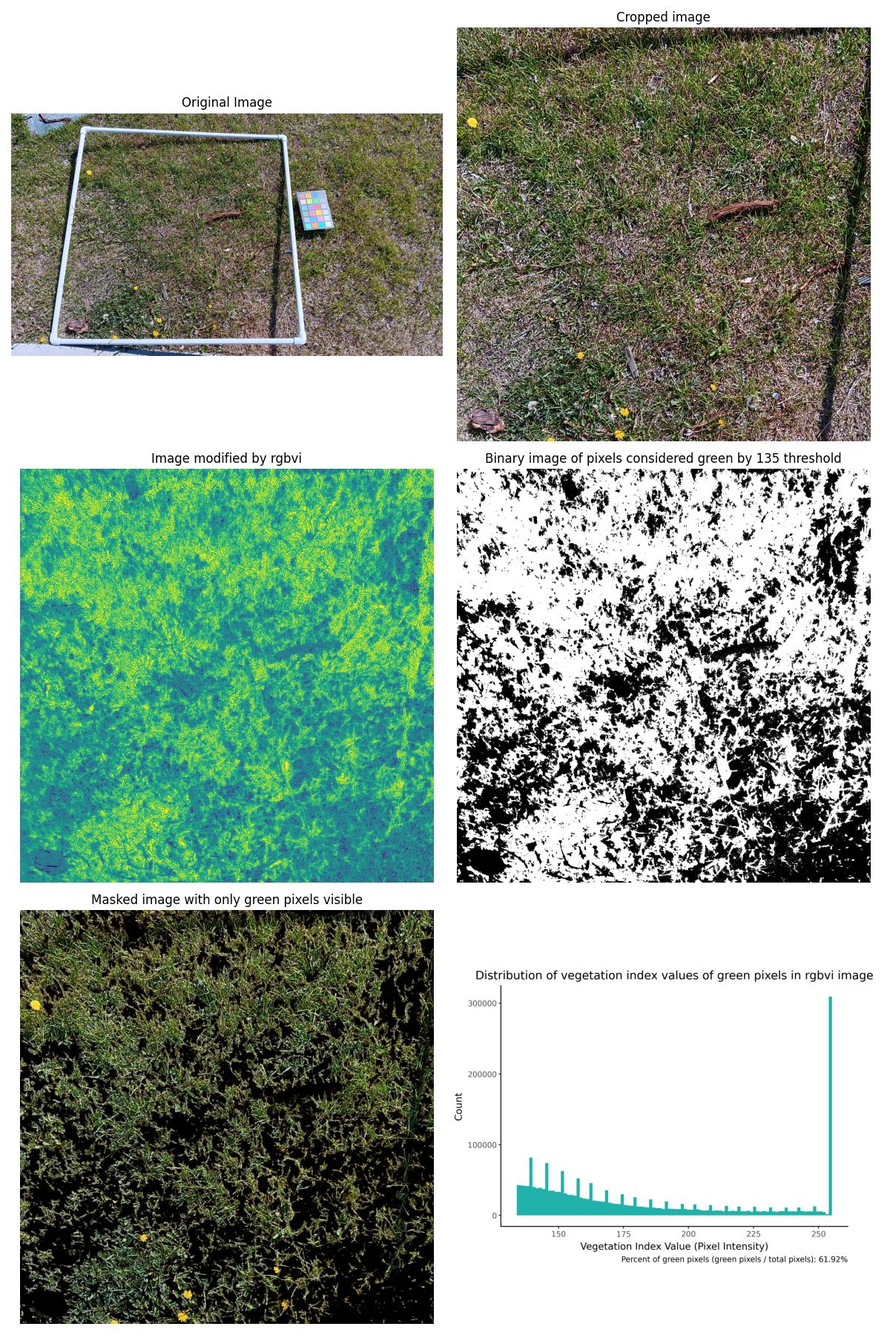
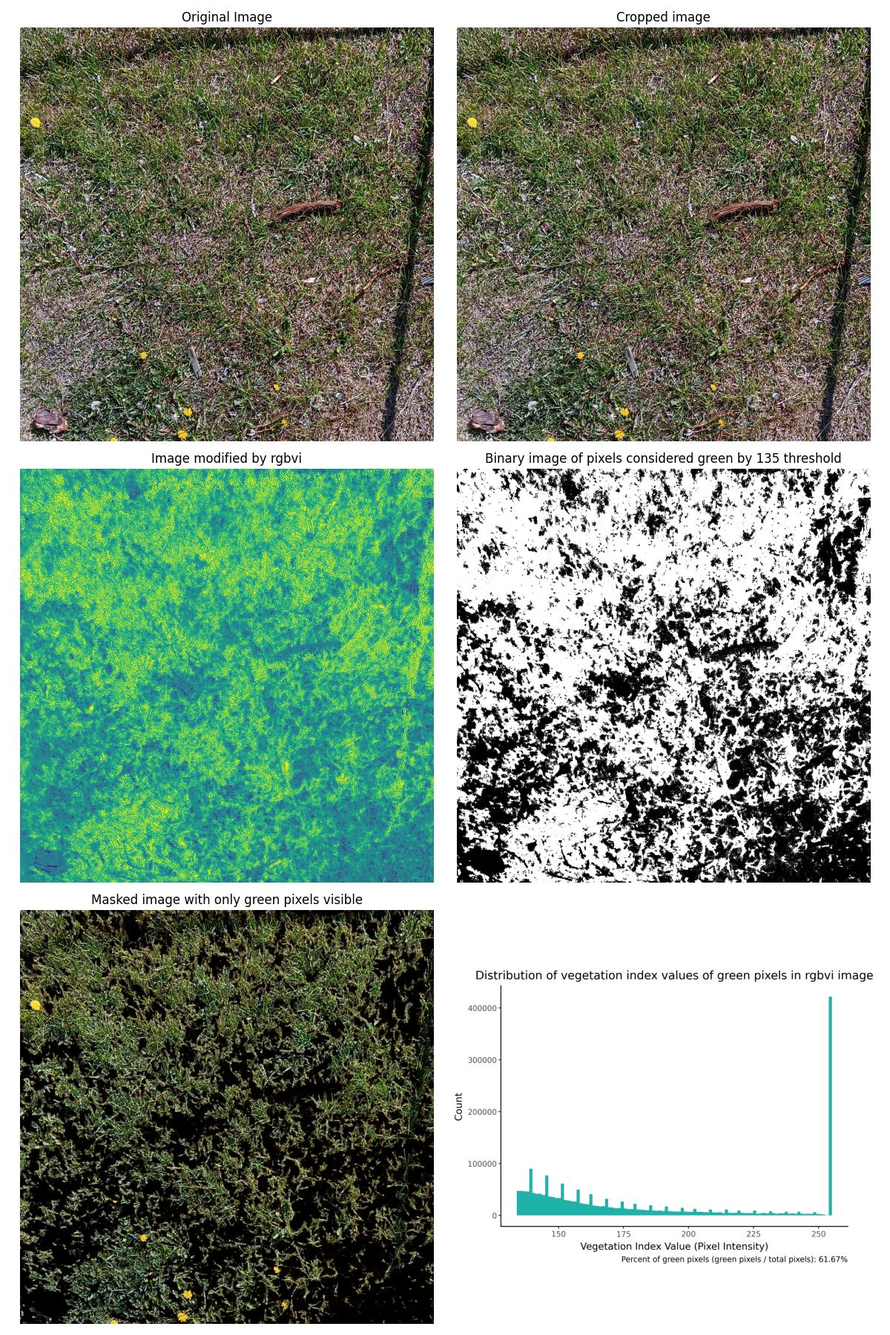
now it's saving the wrong image but close now

diff --git a/master_script_on_multiple_images.py b/master_script_on_multiple_images.py
@@ -3,13 +3,10 @@ from matplotlib import pyplot as plt
 from functions import reorder_file_paths
 from master_script import run_script
 
-
 # Enter path to folder that contains all photos that will be sent through the loop
 folder = 'raw_photos_cropped\\*'
 # Get a list of all the files in that folder in order of number
 files = reorder_file_paths(folder)
-
-
 
 # If your images have already been cropped and save, enter a folder here that contains the original photos before they were cropped. 
 run_w_already_cropped = True
@@ -18,40 +15,39 @@ if run_w_already_cropped == True:
     raw_imgs_folder = 'raw_photos_numbered\\*' # Put the path to the raw images here
     raw_files = reorder_file_paths(raw_imgs_folder)
 
+
+# Determine parameters
+index_type = 'rgbvi'
+green_threshold = 135
+crop = False
+keep_cropped_image = False
+
 for i in range(len(files)):
-    print(files[i], raw_files[i])
+    # Skip the ones I've already done
+    # if i <= 57: # suffering
+    #     continue
+    # else:
+        path = files[i]
+        output_path = f'results/master_script_output/all_photos/grid_{i}.jpg'
 
-# # Determine parameters
-# index_type = 'rgbvi'
-# green_threshold = 135
-# crop = False
-# keep_cropped_image = False
+        # if the images are getting cropped, save it to file
+        if crop == True: 
+            cropped_img = run_script(path, output_path, index_type, green_threshold, crop)
 
-# for i in range(len(files)):
-#     # Skip the ones I've already done
-#     # if i <= 57: # suffering
-#     #     continue
-#     # else:
-#         path = files[i]
-#         output_path = f'results/master_script_output/all_photos/grid_{i}.jpg'
+            # If you want to save the cropped images in a folder 
+            if keep_cropped_image == True:
+                # Save the cropped images so you never have to go through that process again
+                plt.imsave(f'raw_photos_cropped/image_{i}.jpg', cropped_img)
 
-#         # if the images are getting cropped, save it to file
-#         if crop == True: 
-#             cropped_img = run_script(path, output_path, index_type, green_threshold, crop)
+        # If the files have already been cropped and saved in a folder
+        elif run_w_already_cropped == True:
+            raw_imgs_path = raw_files[i]
+            run_script(path, output_path, index_type, green_threshold, crop, raw_imgs_path)
+            print(f'script ran for image {i}')
 
-#             # If you want to save the cropped images in a folder 
-#             if keep_cropped_image == True:
-#                 # Save the cropped images so you never have to go through that process again
-#                 plt.imsave(f'raw_photos_cropped/image_{i}.jpg', cropped_img)
+        # Just run the function like normal!!
+        else:
+            run_script(path, output_path, index_type, green_threshold, crop)
 
-#         # If the files have already been cropped and saved in a folder
-#         elif run_w_already_cropped == True:
-#             raw_imgs_path = raw_files[i]
-#             run_script(path, output_path, index_type, green_threshold, crop, raw_imgs_path)
-
-#         # Just run the function like normal!!
-#         else:
-#             run_script(path, output_path, index_type, green_threshold, crop)
-
-#         print(f'function has run for image {i}: {path}')
+        print(f'function has run for image {i}: {path}')
 

diff --git a/master_script.py b/master_script.py
@@ -158,7 +158,11 @@ def run_script(path, output_path, index_type, green_threshold, crop, keep_croppe
     if crop == True:
         # Cropped image
         axs[0, 1].imshow(cropped_img, cmap='gray')
-        axs[0, 1].set_title('Cropped image')        
+        axs[0, 1].set_title('Cropped image') 
+    else:
+        # Display cropped image from files
+        axs[0, 1].imshow(img, cmap='gray')
+        axs[0, 1].set_title('Cropped image') 
     axs[0, 1].axis('off')
 
     # Image modified by vegetation index
